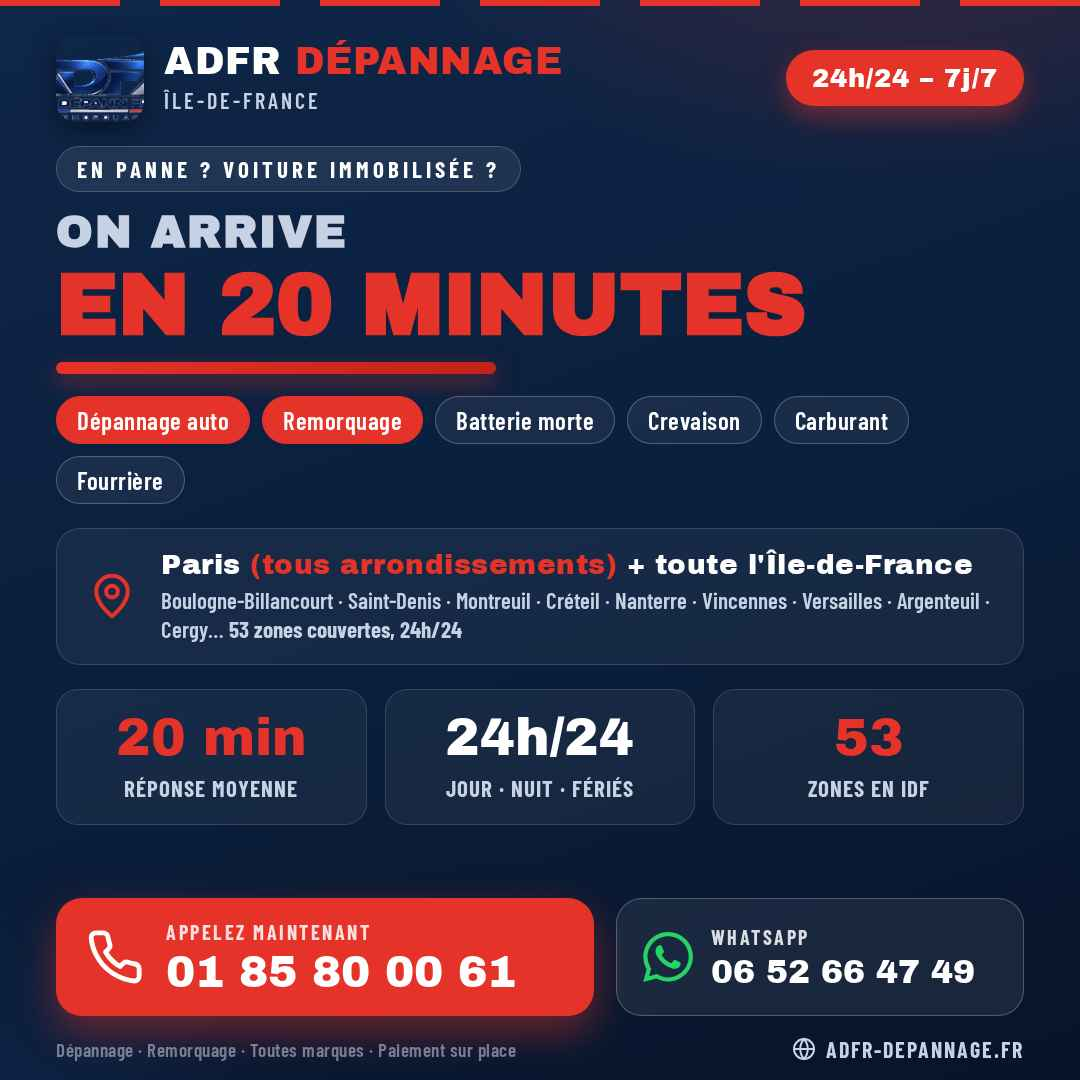
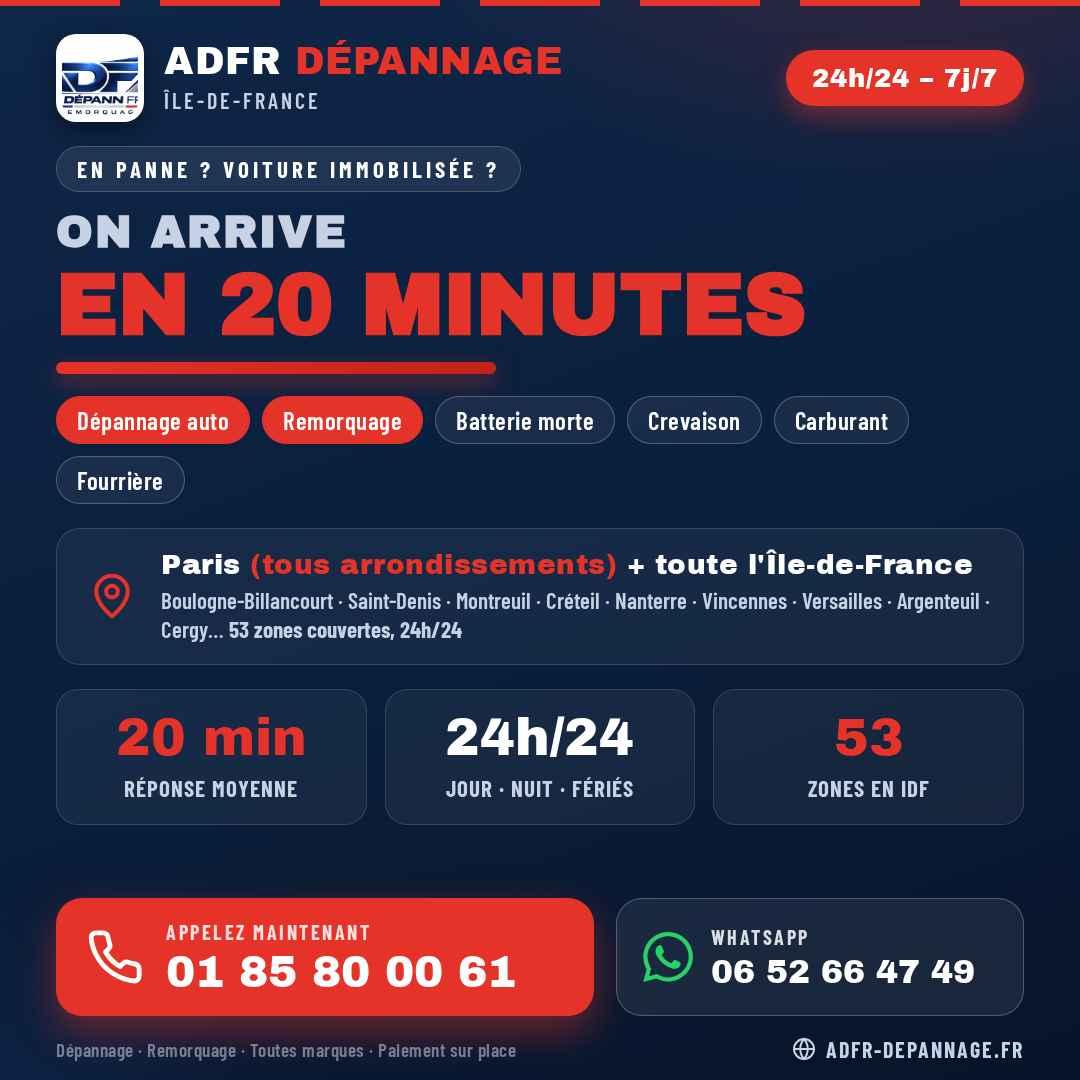
**Ton flyer Story est prêt ! — complete**
- Tu as maintenant les DEUX flyers : le carré (1080x1080) pour les publications Facebook/Instagram, et le nouveau vertical (1080x1920) pour tes statuts WhatsApp et stories Instagram. Même design : logo bien visible sur pastille blanche, "ON ARRIVE EN 20 MINUTES JOUR ET NUIT", services, 53 zones IDF, téléphone 01 85 80 00 61 et WhatsApp 06 52 66 47 49.
- Pour les enregistrer sur ton téléphone : ouvre ces liens, appuie longtemps sur l'image → "Enregistrer" :
  - Version Story (verticale) : https://depann-24h--1r7lsb7w.preview.emergentagent.com/flyer-story.png
  - Version Carré : https://depann-24h--1r7lsb7w.preview.emergentagent.com/flyer-adfr.png
- Checked : j'ai vérifié les deux flyers à l'écran (logo lisible, rien de coupé, format exact 1080x1080 et 1080x1920) et les deux fichiers se téléchargent bien. À noter : ces images sont en prévisualisation ; au prochain "Deploy", elles seront aussi disponibles à vie sur ton site (adfr-depannage.fr/flyer-adfr.png et /flyer-story.png).
- Aucun compte ni mot de passe nécessaire — les flyers sont libres d'utilisation.
- Ouvre les deux liens et enregistre-les sur ton téléphone maintenant.
- Next Action Items :
  - **Flyer imprimable** : décline le design en A5 haute qualité pour les boîtes aux lettres et pare-brise
  - **Termes de recherche** : envoie-moi ta capture "Termes de recherche" Google Ads pour éliminer les clics qui ne font pas appeler
[…]

Changed region(s): [[0.0306, 0.0306, 0.1528, 0.1222]]

diff --git a/frontend/public/flyer-story.html b/frontend/public/flyer-story.html
@@ -1,0 +1,158 @@
+<!DOCTYPE html>
+<html lang="fr">
+<head>
+<meta charset="UTF-8">
+<meta name="viewport" content="width=device-width, initial-scale=1.0">
+<title>ADFR Dépannage — Story</title>
+<link rel="preconnect" href="https://fonts.googleapis.com">
+<link href="https://fonts.googleapis.com/css2?family=Archivo+Black&family=Barlow+Condensed:wght@500;600;700&display=swap" rel="stylesheet">
+<style>
+  :root{
+    --navy:#0A1E3C;
+    --navy-2:#0F2A52;
+    --red:#E63329;
+    --red-dark:#C22218;
+    --white:#FFFFFF;
+    --silver:#C7D3E4;
+  }
+  *{margin:0;padding:0;box-sizing:border-box;}
+  html,body{background:#050d1d;}
+  body{display:flex;justify-content:center;align-items:flex-start;font-family:'Barlow Condensed',sans-serif;}
+  .story{
+    width:1080px;height:1920px;position:relative;overflow:hidden;
+    background:
+      radial-gradient(1000px 600px at 90% -5%, rgba(230,51,41,.22), transparent 60%),
+      radial-gradient(900px 700px at -10% 105%, rgba(15,42,82,.9), transparent 60%),
+      linear-gradient(165deg,#0E2648 0%, var(--navy) 55%, #071429 100%);
+    display:flex;flex-direction:column;
+  }
+  .grain{position:absolute;inset:0;opacity:.05;background-image:radial-gradient(rgba(255,255,255,.9) .5px, transparent .5px);background-size:14px 14px;pointer-events:none;}
+  .speedlines{position:absolute;top:0;left:0;width:100%;height:8px;background:repeating-linear-gradient(90deg,var(--red) 0 140px, transparent 140px 190px);}
+  /* HEADER */
+  .head{display:flex;align-items:center;justify-content:space-between;padding:48px 70px 0 70px;}
+  .brand{display:flex;align-items:center;gap:24px;}
+  .brand img{width:100px;height:100px;border-radius:24px;object-fit:cover;box-shadow:0 10px 30px rgba(0,0,0,.5);background:#fff;padding:7px;}
+  .brand-name{font-family:'Archivo Black',sans-serif;color:var(--white);font-size:48px;letter-spacing:.5px;line-height:1;}
+  .brand-name span{color:var(--red);}
+  .brand-sub{color:var(--silver);font-size:27px;letter-spacing:4px;text-transform:uppercase;font-weight:600;margin-top:8px;}
+  .badge-247{background:var(--red);color:var(--white);font-family:'Archivo Black',sans-serif;font-size:31px;padding:18px 32px;border-radius:999px;letter-spacing:1px;box-shadow:0 12px 30px rgba(230,51,41,.45);white-space:nowrap;}
+  /* HERO */
+  .hero{padding:40px 70px 0 70px;text-align:left;}
+  .hero-kicker{display:inline-block;color:var(--white);background:rgba(255,255,255,.08);border:1px solid rgba(255,255,255,.18);padding:12px 28px;border-radius:999px;font-size:30px;letter-spacing:5px;text-transform:uppercase;font-weight:700;}
+  .hero h1{font-family:'Archivo Black',sans-serif;color:var(--white);text-transform:uppercase;line-height:.92;margin-top:24px;}
+  .hero h1 .small{display:block;font-size:58px;color:var(--silver);letter-spacing:2px;margin-bottom:14px;}
+  .hero h1 .big{display:block;font-size:150px;color:var(--red);letter-spacing:2px;}
+  .hero h1 .big.white{color:var(--white);font-size:86px;margin-top:8px;white-space:nowrap;}
+  .underline{width:640px;height:16px;background:linear-gradient(90deg,var(--red),var(--red-dark));border-radius:999px;margin-top:24px;box-shadow:0 10px 28px rgba(230,51,41,.5);}
+  /* SERVICES */
+  .services{display:flex;flex-wrap:wrap;gap:16px;padding:32px 70px 0 70px;}
+  .chip{color:var(--white);border:2px solid rgba(255,255,255,.25);background:rgba(255,255,255,.06);padding:10px 26px;border-radius:999px;font-size:31px;font-weight:600;letter-spacing:.5px;}
+  .chip.hot{background:var(--red);border-color:var(--red);}
+  /* ZONES */
+  .zones{margin:32px 70px 0 70px;background:rgba(255,255,255,.05);border:1px solid rgba(255,255,255,.14);border-radius:28px;padding:26px 32px;display:flex;align-items:center;gap:26px;}
+  .zones svg{flex-shrink:0;}
+  .zones-txt{color:var(--white);}
+  .zones-txt .t{font-family:'Archivo Black',sans-serif;font-size:34px;letter-spacing:.5px;line-height:1.15;}
+  .zones-txt .t em{color:var(--red);font-style:normal;}
+  .zones-txt .d{color:var(--silver);font-size:27px;font-weight:600;margin-top:8px;line-height:1.3;}
+  /* STATS */
+  .stats{display:flex;gap:20px;padding:32px 70px 0 70px;}
+  .stat{flex:1;background:rgba(255,255,255,.05);border:1px solid rgba(255,255,255,.14);border-radius:26px;padding:24px 20px;text-align:center;}
+  .stat .v{font-family:'Archivo Black',sans-serif;color:var(--red);font-size:58px;line-height:1;}
+  .stat .v.white{color:var(--white);}
+  .stat .l{color:var(--silver);font-size:26px;font-weight:700;letter-spacing:1px;text-transform:uppercase;margin-top:10px;}
+  /* CTA */
+  .cta{margin-top:auto;padding:0 70px 0 70px;display:flex;flex-direction:column;gap:20px;}
+  .call{
+    background:var(--red);border-radius:32px;padding:30px 38px;display:flex;align-items:center;gap:28px;
+    box-shadow:0 20px 50px rgba(230,51,41,.5);
+  }
+  .wa{
+    background:rgba(255,255,255,.07);border:2px solid rgba(255,255,255,.25);border-radius:32px;padding:28px 36px;display:flex;align-items:center;gap:24px;
+  }
+  .cta .num{font-family:'Archivo Black',sans-serif;color:var(--white);}
+  .cta .call .num{font-size:64px;line-height:1;white-space:nowrap;}
+  .cta .wa .num{font-size:44px;line-height:1.05;}
+  .cta .lbl{color:rgba(255,255,255,.85);font-size:26px;font-weight:700;letter-spacing:3px;text-transform:uppercase;margin-bottom:8px;}
+  .foot{display:flex;align-items:center;justify-content:space-between;padding:26px 70px 38px 70px;}
+  .site{color:var(--silver);font-size:28px;letter-spacing:2px;font-weight:700;text-transform:uppercase;display:flex;align-items:center;gap:12px;}
+  .foot-note{color:rgba(199,211,228,.55);font-size:24px;letter-spacing:.5px;font-weight:600;}
+</style>
+</head>
+<body>
+  <div class="story">
+    <div class="grain"></div>
+    <div class="speedlines"></div>
+
+    <div class="head">
+      <div class="brand">
+        <img src="/img/logo-adfr.png" alt="ADFR">
+        <div>
+          <div class="brand-name">ADFR <span>DÉPANNAGE</span></div>
+          <div class="brand-sub">Île-de-France</div>
+        </div>
+      </div>
+      <div class="badge-247">24h/24 – 7j/7</div>
+    </div>
+
+    <div class="hero">
+      <span class="hero-kicker">En panne ? Voiture immobilisée ?</span>
+      <h1>
+        <span class="small">On arrive</span>
+        <span class="big">EN 20</span>
+        <span class="big">MINUTES</span>
+        <span class="big white">JOUR ET NUIT</span>
+      </h1>
+      <div class="underline"></div>
+    </div>
+
+    <div class="services">
+      <span class="chip hot">Dépannage auto</span>
+      <span class="chip hot">Remorquage</span>
+      <span class="chip">Batterie morte</span>
+      <span class="chip">Crevaison</span>
+      <span class="chip">Carburant</span>
+      <span class="chip">Fourrière</span>
+    </div>
+
+    <div class="zones">
+      <svg width="64" height="64" viewBox="0 0 24 24" fill="none" stroke="#E63329" stroke-width="1.8" stroke-linecap="round" stroke-linejoin="round"><path d="M12 21s-7-5.5-7-11a7 7 0 1 1 14 0c0 5.5-7 11-7 11z"/><circle cx="12" cy="10" r="2.6"/></svg>
+      <div class="zones-txt">
+        <div class="t">Paris <em>(tous arrondissements)</em> + toute l'Île-de-France</div>
+        <div class="d">Boulogne-Billancourt · Saint-Denis · Montreuil · Créteil · Nanterre · Vincennes · Versailles · Argenteuil · Cergy…</div>
+      </div>
+    </div>
+
+    <div class="stats">
+      <div class="stat"><div class="v">20 min</div><div class="l">Réponse moyenne</div></div>
+      <div class="stat"><div class="v white">24h/24</div><div class="l">Jour · Nuit · Fériés</div></div>
+      <div class="stat"><div class="v">53</div><div class="l">Zones en IDF</div></div>
+    </div>
+
+    <div class="cta">
+      <div class="call">
+        <svg width="76" height="76" viewBox="0 0 24 24" fill="none" stroke="#fff" stroke-width="2" stroke-linecap="round" stroke-linejoin="round"><path d="M22 16.92v3a2 2 0 0 1-2.18 2 19.79 19.79 0 0 1-8.63-3.07 19.5 19.5 0 0 1-6-6 19.79 19.79 0 0 1-3.07-8.67A2 2 0 0 1 4.11 2h3a2 2 0 0 1 2 1.72c.13.96.36 1.9.7 2.81a2 2 0 0 1-.45 2.11L8.09 9.91a16 16 0 0 0 6 6l1.27-1.27a2 2 0 0 1 2.11-.45c.91.34 1.85.57 2.81.7A2 2 0 0 1 22 16.92z"/></svg>
+        <div>
+          <div class="lbl">Appelez maintenant</div>
+          <div class="num">01 85 80 00 61</div>
+        </div>
+      </div>
+      <div class="wa">
+        <svg width="60" height="60" viewBox="0 0 24 24" fill="#25D366"><path d="M17.47 14.38c-.3-.15-1.75-.86-2.02-.96-.27-.1-.47-.15-.67.15-.2.3-.77.96-.94 1.16-.17.2-.35.22-.64.07-.3-.15-1.26-.46-2.4-1.48-.89-.79-1.49-1.77-1.66-2.07-.17-.3-.02-.46.13-.61.13-.13.3-.35.45-.52.15-.17.2-.3.3-.5.1-.2.05-.37-.02-.52-.07-.15-.67-1.61-.92-2.2-.24-.58-.49-.5-.67-.51h-.57c-.2 0-.52.07-.8.37-.27.3-1.04 1.02-1.04 2.49s1.07 2.89 1.22 3.09c.15.2 2.1 3.2 5.08 4.49.71.31 1.26.49 1.69.63.71.22 1.36.19 1.87.12.57-.09 1.75-.72 2-1.41.25-.7.25-1.29.17-1.41-.07-.12-.27-.2-.57-.35zM12.05 21.79h-.01a9.87 9.87 0 0 1-5.03-1.38l-.36-.21-3.74.98 1-3.65-.24-.37a9.86 9.86 0 0 1-1.51-5.26c0-5.45 4.44-9.88 9.9-9.88a9.82 9.82 0 0 1 9.88 9.89c0 5.45-4.44 9.88-9.89 9.88zm8.42-18.31A11.82 11.82 0 0 0 12.05 0C5.5 0 .16 5.34.16 11.9c0 2.1.55 4.14 1.59 5.94L.07 24l6.3-1.65a11.88 11.88 0 0 0 5.68 1.45h.01c6.55 0 11.89-5.34 11.89-11.9 0-3.18-1.24-6.16-3.48-8.42z"/></svg>
+        <div>
+          <div class="lbl">WhatsApp</div>
+          <div class="num">06 52 66 47 49</div>
+        </div>
+      </div>
+    </div>
+
+    <div class="foot">
+      <div class="foot-note">Dépannage · Remorquage · Toutes marques · Paiement sur place</div>
+      <div class="site">
+        <svg width="28" height="28" viewBox="0 0 24 24" fill="none" stroke="#C7D3E4" stroke-width="2" stroke-linecap="round"><circle cx="12" cy="12" r="10"/><path d="M2 12h20M12 2a15.3 15.3 0 0 1 0 20 15.3 15.3 0 0 1 0-20z"/></svg>
+        adfr-depannage.fr
+      </div>
+    </div>
+  </div>
+</body>
+</html>

diff --git a/frontend/public/flyer.html b/frontend/public/flyer.html
@@ -31,7 +31,7 @@
   /* HEADER */
   .head{display:flex;align-items:center;justify-content:space-between;padding:34px 56px 0 56px;}
   .brand{display:flex;align-items:center;gap:20px;}
-  .brand img{width:88px;height:88px;border-radius:20px;object-fit:cover;box-shadow:0 8px 24px rgba(0,0,0,.45);}
+  .brand img{width:88px;height:88px;border-radius:20px;object-fit:cover;box-shadow:0 8px 24px rgba(0,0,0,.45);background:#fff;padding:6px;}
   .brand-name{font-family:'Archivo Black',sans-serif;color:var(--white);font-size:38px;letter-spacing:.5px;line-height:1;}
   .brand-name span{color:var(--red);}
   .brand-sub{color:var(--silver);font-size:22px;letter-spacing:3px;text-transform:uppercase;font-weight:600;margin-top:6px;}

diff --git a/memory/PRD.md b/memory/PRD.md
@@ -197,3 +197,8 @@ Brief client en 10 points, execute et verifie (testing agent iteration_6: 100%):
 - Corrections conseillées dans son compte Ads: supprimer "combien coute un remorquage de voiture", passer "dépannage auto" et "voiture en panne" en Expression, URL finale accueil correcte (chemin d affichage cosmétique seulement).
 - Créé: flyer digital 1080x1080 (WhatsApp/réseaux) — /app/frontend/public/flyer.html (source) + /app/frontend/public/flyer-adfr.png (image), couleurs bleu nuit/rouge, logo, promesse 20 min, services, 53 zones IDF, tel 01 85 80 00 61 + WhatsApp 06 52 66 47 49. Vérifié par capture (1080x1080, pas d overflow). Sera livré sur adfr-depannage.fr/flyer-adfr.png au prochain deploy.
 - Données Ads client au 1er nov: 336 impressions, 6 clics, CTR 1,79%, ~2,40 EUR/clic, 0 appel encore (apprentissage, échantillon faible). Prochain jalon: termes de recherche à filtrer ensemble.
+
+## Feature 2026-11-02 (18) - Flyer Story 1080x1920 + logo visible
+- Client: version verticale 1080x1920 du flyer pour statuts WhatsApp/stories Instagram + logo plus visible.
+- Cree: /app/frontend/public/flyer-story.html (source) + /app/frontend/public/flyer-story.png (image finale). Logo sur pastille blanche sur les 2 flyers (flyer.html + flyer-story.html). Verifie captures 1080x1920 et 1080x1080: pas d overflow, tout lisible.
+- Liens publics: /flyer-adfr.png (carre) et /flyer-story.png (story), HTTP 200. Livres sur adfr-depannage.fr au prochain deploy.
